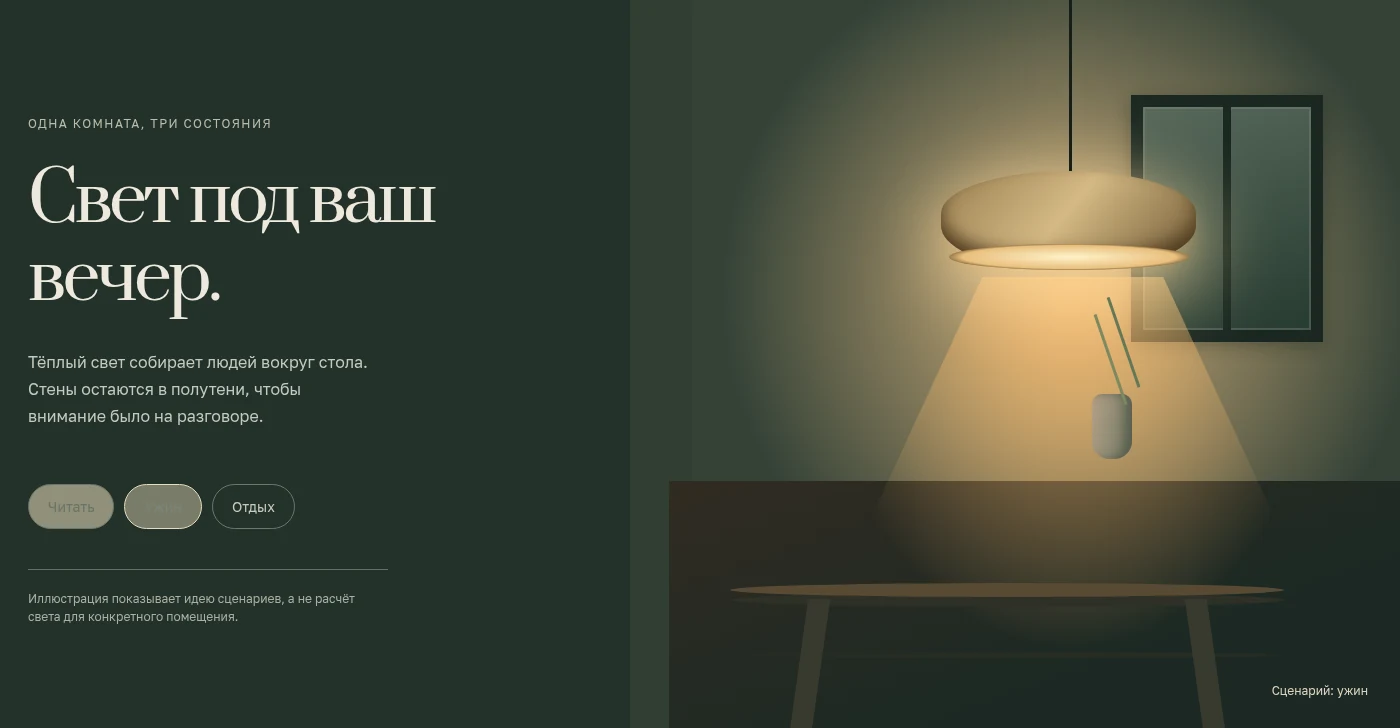
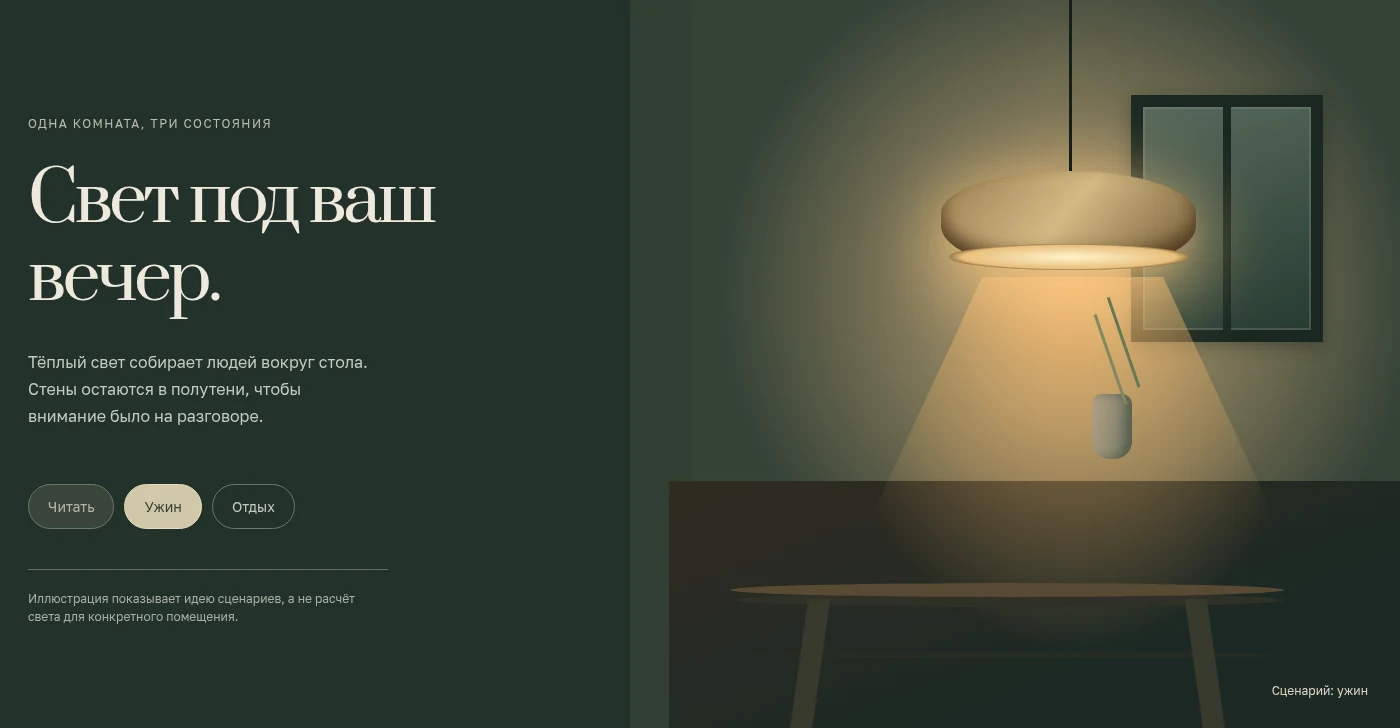
Refine portfolio introduction

Changed region(s): [[0.0, 0.6648, 0.1536, 0.7253]]

diff --git a/index.html b/index.html
@@ -34,12 +34,11 @@
   <main id="main" tabindex="-1">
     <section class="hero shell" id="top" aria-labelledby="hero-title">
       <div class="hero-copy">
-        <p class="hero-intro">Разработка сайтов / Telegram-боты</p>
+        <p class="hero-intro">Сайты и Telegram-боты для небольших проектов</p>
         <h1 id="hero-title">levvxff<span class="period">.</span></h1>
-        <p class="hero-claim">Собираю сайты, в которых видно ваше дело.</p>
-        <p class="hero-subtitle">Продумываю структуру, дизайн и мобильную версию. Ниже — два авторских проекта: откройте страницы и посмотрите, как всё работает.</p>
+        <p class="hero-claim">Вашу работу проще показать, чем объяснять.</p>
+        <p class="hero-subtitle">Собираю страницы, на которых сразу понятно, что вы делаете, как это выглядит и куда написать. Ниже — два проекта, которые можно открыть и проверить.</p>
         <div class="hero-actions"><a class="button button-primary" href="#works">Посмотреть проекты <span aria-hidden="true">↘</span></a><a class="text-link" href="https://t.me/levvxff" target="_blank" rel="noopener noreferrer">Обсудить задачу <span aria-hidden="true">↗</span></a></div>
-        <p class="hero-note">Ниже — авторские концепты. Каждый можно открыть и проверить.</p>
       </div>
       <div class="hero-art" aria-hidden="true">
         <div class="art-grid"></div>
@@ -51,7 +50,7 @@
     </section>
 
     <section class="work-section" id="works" aria-labelledby="works-title">
-      <div class="shell work-heading"><div><p class="section-index">Выборка работ / 2026</p><h2 id="works-title">Откройте и<br>покликайте<span class="period">.</span></h2></div><p>Здесь два самостоятельных концепта. Они показывают структуру, оформление и работу страниц на разных экранах. Это демонстрационные проекты, а не выполненные клиентские заказы.</p></div>
+      <div class="shell work-heading"><div><p class="section-index">Два проекта</p><h2 id="works-title">Откройте и<br>покликайте<span class="period">.</span></h2></div><p>Два проекта с разным характером. Оба можно открыть, прокликать и посмотреть с телефона. Это авторские концепты для портфолио.</p></div>
       <div class="shell project-list">
         <article class="project project-one" aria-labelledby="project-one-title">
           <div class="project-visual visual-one"><div class="browser"><div class="browser-top"><span class="browser-dots" aria-hidden="true"><i></i><i></i><i></i></span><span>демонстрационный проект</span><span class="browser-arrow" aria-hidden="true">↗</span></div><img src="assets/project-one-desktop.webp" width="1200" height="780" alt="Главный экран авторского концепта «ЛУЧ»"></div><div class="phone"><div class="phone-notch" aria-hidden="true"></div><img src="assets/project-one-mobile.webp" width="390" height="844" alt="Мобильная версия концепта «ЛУЧ»"></div></div>
@@ -70,7 +69,7 @@
 
     <section class="pricing-section" id="prices" aria-labelledby="prices-title"><div class="shell"><div class="pricing-heading"><div><p class="section-index">Предварительная стоимость</p><h2 id="prices-title">Выберите задачу<span class="period">.</span></h2></div><p>Сумма зависит от объёма, материалов и функций. Ниже — ориентиры для небольших проектов; окончательную цену назову после короткого описания задачи.</p></div><div class="pricing-layout"><fieldset class="price-options"><legend>Что нужно сделать?</legend><label class="price-option"><input type="radio" name="price-service" value="onepage" checked data-min="7000" data-max="12000" data-title="Небольшая страница" data-detail="Одна услуга или небольшой проект: структура, дизайн, мобильная версия и путь к обращению."><span class="price-option-main"><strong>Небольшая страница</strong><small>Одна услуга, до пяти смысловых блоков</small></span><span class="price-range">7–12 тыс. ₽</span></label><label class="price-option"><input type="radio" name="price-service" value="site" data-min="12000" data-max="22000" data-title="Сайт с работами и разделами" data-detail="Несколько разделов, галерея или каталог без сложной серверной части. Объём страниц уточним отдельно."><span class="price-option-main"><strong>Сайт с работами и разделами</strong><small>Галерея, услуги, подробная подача</small></span><span class="price-range">12–22 тыс. ₽</span></label><label class="price-option"><input type="radio" name="price-service" value="simple-bot" data-min="6000" data-max="10000" data-title="Простой Telegram-бот" data-detail="Меню, ответы на частые вопросы и переход к человеку. Без внешних систем и платежей."><span class="price-option-main"><strong>Простой Telegram-бот</strong><small>Меню, ответы, переход к человеку</small></span><span class="price-range">6–10 тыс. ₽</span></label><label class="price-option"><input type="radio" name="price-service" value="request-bot" data-min="10000" data-max="18000" data-title="Бот для сбора заявок" data-detail="Сценарий вопросов, сбор данных и уведомление о заявке. Способ хранения и передачи данных согласуем до работы."><span class="price-option-main"><strong>Бот для сбора заявок</strong><small>Вопросы, контакт, уведомление</small></span><span class="price-range">10–18 тыс. ₽</span></label></fieldset><aside class="price-result" aria-label="Предварительная оценка"><p class="result-kicker">Ваш ориентир</p><h3 id="estimate-title">Небольшая страница</h3><strong id="estimate-amount" aria-live="polite">7–12 тыс. ₽</strong><p id="estimate-detail">Одна услуга или небольшой проект: структура, дизайн, мобильная версия и путь к обращению.</p><label class="custom-option"><input id="complex-integration" type="checkbox"><span>Нужна оплата, CRM или другая внешняя интеграция</span></label><p class="estimate-note" id="estimate-note">Цену и сроки фиксируем после согласования задачи. Домен, платные тарифы и внешние сервисы обсудим отдельно, если они понадобятся.</p><a href="https://t.me/levvxff" target="_blank" rel="noopener noreferrer" class="button button-price">Обсудить этот вариант <span aria-hidden="true">↗</span></a></aside></div></div></section>
 
-    <section class="contact-section" id="contact" aria-labelledby="contact-title"><div class="shell contact-inner"><div><p class="section-index">Связаться</p><h2 id="contact-title">Расскажите,<br>что за проект<span class="period">.</span></h2><p>Можно прислать ссылку на текущий сайт, описание задачи или пару примеров, которые нравятся. Посмотрю и предложу следующий шаг. Стоимость назову после уточнения объёма.</p></div><a class="contact-button" href="https://t.me/levvxff" target="_blank" rel="noopener noreferrer"><span>Написать levvxff<br><strong>в Telegram</strong></span><span aria-hidden="true">↗</span></a></div></section>
+    <section class="contact-section" id="contact" aria-labelledby="contact-title"><div class="shell contact-inner"><div><p class="section-index">Связаться</p><h2 id="contact-title">Расскажите,<br>что за проект<span class="period">.</span></h2><p>Можно прислать ссылку на текущий сайт, описание задачи или пару примеров, которые нравятся. Посмотрю и предложу следующий шаг. Стоимость назову после уточнения объёма.</p></div><a class="contact-button" href="https://t.me/levvxff" target="_blank" rel="noopener noreferrer"><span>Написать мне<br><strong>в Telegram</strong></span><span aria-hidden="true">↗</span></a></div></section>
   </main>
   <footer class="site-footer shell"><span>levvxff / сайты и интерфейсы</span><span>Авторские концепты · 2026</span><a href="https://t.me/levvxff" target="_blank" rel="noopener noreferrer">@levvxff <span aria-hidden="true">↗</span></a></footer>
   <script src="pricing.js" defer></script>
